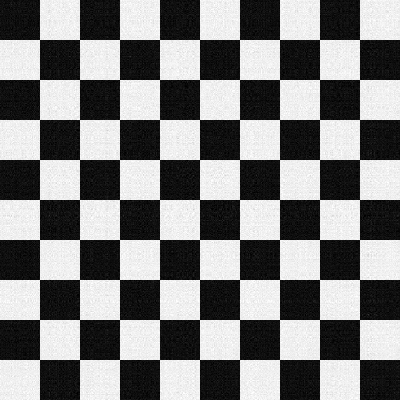
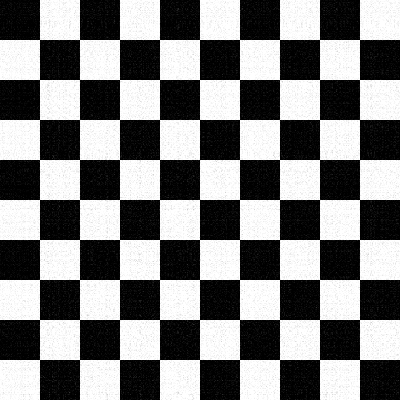
ho tolto il clamp da AddNoise su suggerimento di claude

diff --git a/challenge2/challenge2.cpp b/challenge2/challenge2.cpp
@@ -164,5 +164,5 @@ void saveMatrixAsPng(const std::string& filename, const Eigen::MatrixXd& M)
 Eigen::MatrixXd addNoise(const Eigen::MatrixXd& img)
 {
     Eigen::MatrixXd noise = 60.0 * Eigen::MatrixXd::Random(img.rows(), img.cols());
-    return (img + noise).cwiseMax(0.0).cwiseMin(255.0);
+    return img + noise;
 }
